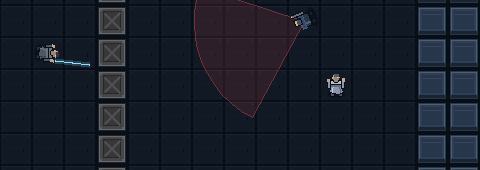
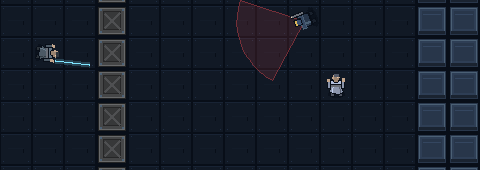
fix(infiltration): keep preview cones inside the image

Changed region(s): [[0.4062, 0.0, 0.5938, 0.7059]]

diff --git a/tools/infiltration/make_missions.py b/tools/infiltration/make_missions.py
@@ -531,6 +531,17 @@ def preview_image(m, sprite_overrides=None):
         x, y = center(cell)
         base = math.atan2(facing[1], facing[0])
         half = math.radians(degrees) / 2
+        for step in range(13):
+            angle = base - half + 2 * half * step / 12
+            dx, dy = math.cos(angle), math.sin(angle)
+            if dx > 0.001:
+                reach = min(reach, (PREVIEW_SIZE[0] - 1 - x) / dx)
+            elif dx < -0.001:
+                reach = min(reach, -x / dx)
+            if dy > 0.001:
+                reach = min(reach, (PREVIEW_SIZE[1] - 1 - y) / dy)
+            elif dy < -0.001:
+                reach = min(reach, -y / dy)
         points = [(x, y)]
         for step in range(13):
             angle = base - half + 2 * half * step / 12
